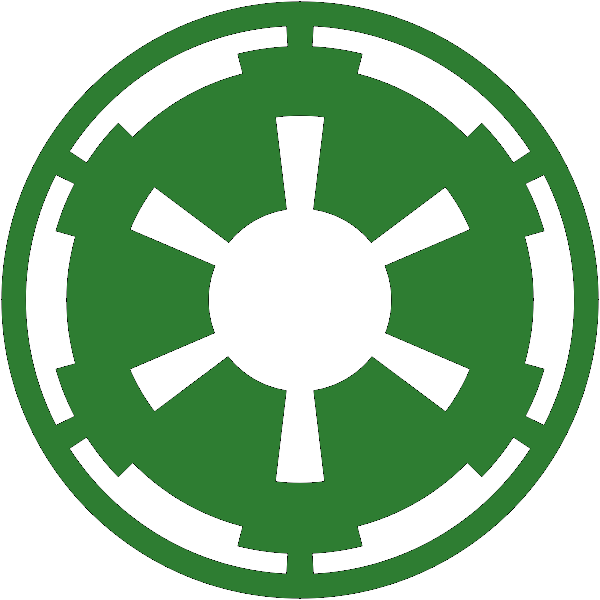
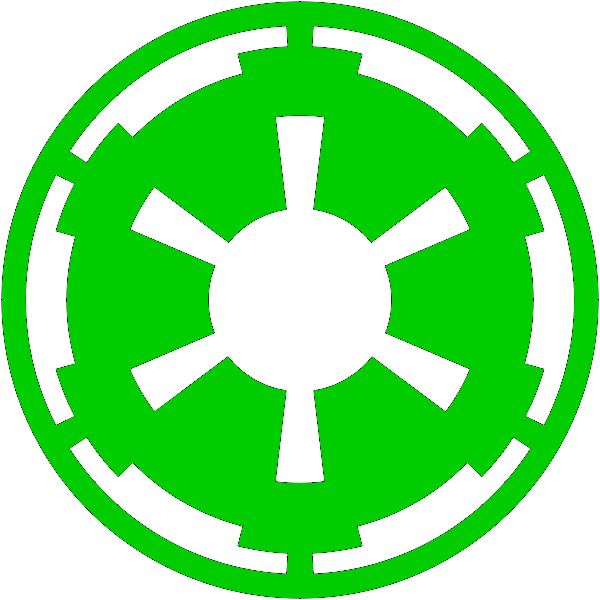
fix: Alderaan destroyed note, brighter Imperial green (#00CC00)
- Leia's homeworld marked as "(destroyed)" — she carries permanent -5%
- Imperial cog brightened from dark #2E7D32 to game-accurate #00CC00

diff --git a/ghidra-site/docs/expansions/homeworld.md b/ghidra-site/docs/expansions/homeworld.md
@@ -19,7 +19,7 @@ Every character gains a `homeworld` field linking them to a star system. This en
 |-----------|-----------|
 | Luke Skywalker | Tatooine |
 | Darth Vader | Tatooine |
-| Leia Organa | Alderaan |
+| Leia Organa | Alderaan (destroyed) |
 | Han Solo | Corellia |
 | Mon Mothma | Chandrila |
 | Thrawn | Csilla |
@@ -33,7 +33,7 @@ Every character gains a `homeworld` field linking them to a star system. This en
 - **+10 loyalty** recovery when homeworld is liberated
 - Special dialogue and events when defending or liberating a homeworld
 
-When Alderaan falls, Leia's loyalty drops. When Corellia is liberated, Han fights harder. The map becomes personal.
+Leia's homeworld is already gone—she carries a permanent -5% penalty and can never recover it. Han fights harder when Corellia is liberated. Vader is conflicted at Tatooine. The map becomes personal.
 
 ---
 
